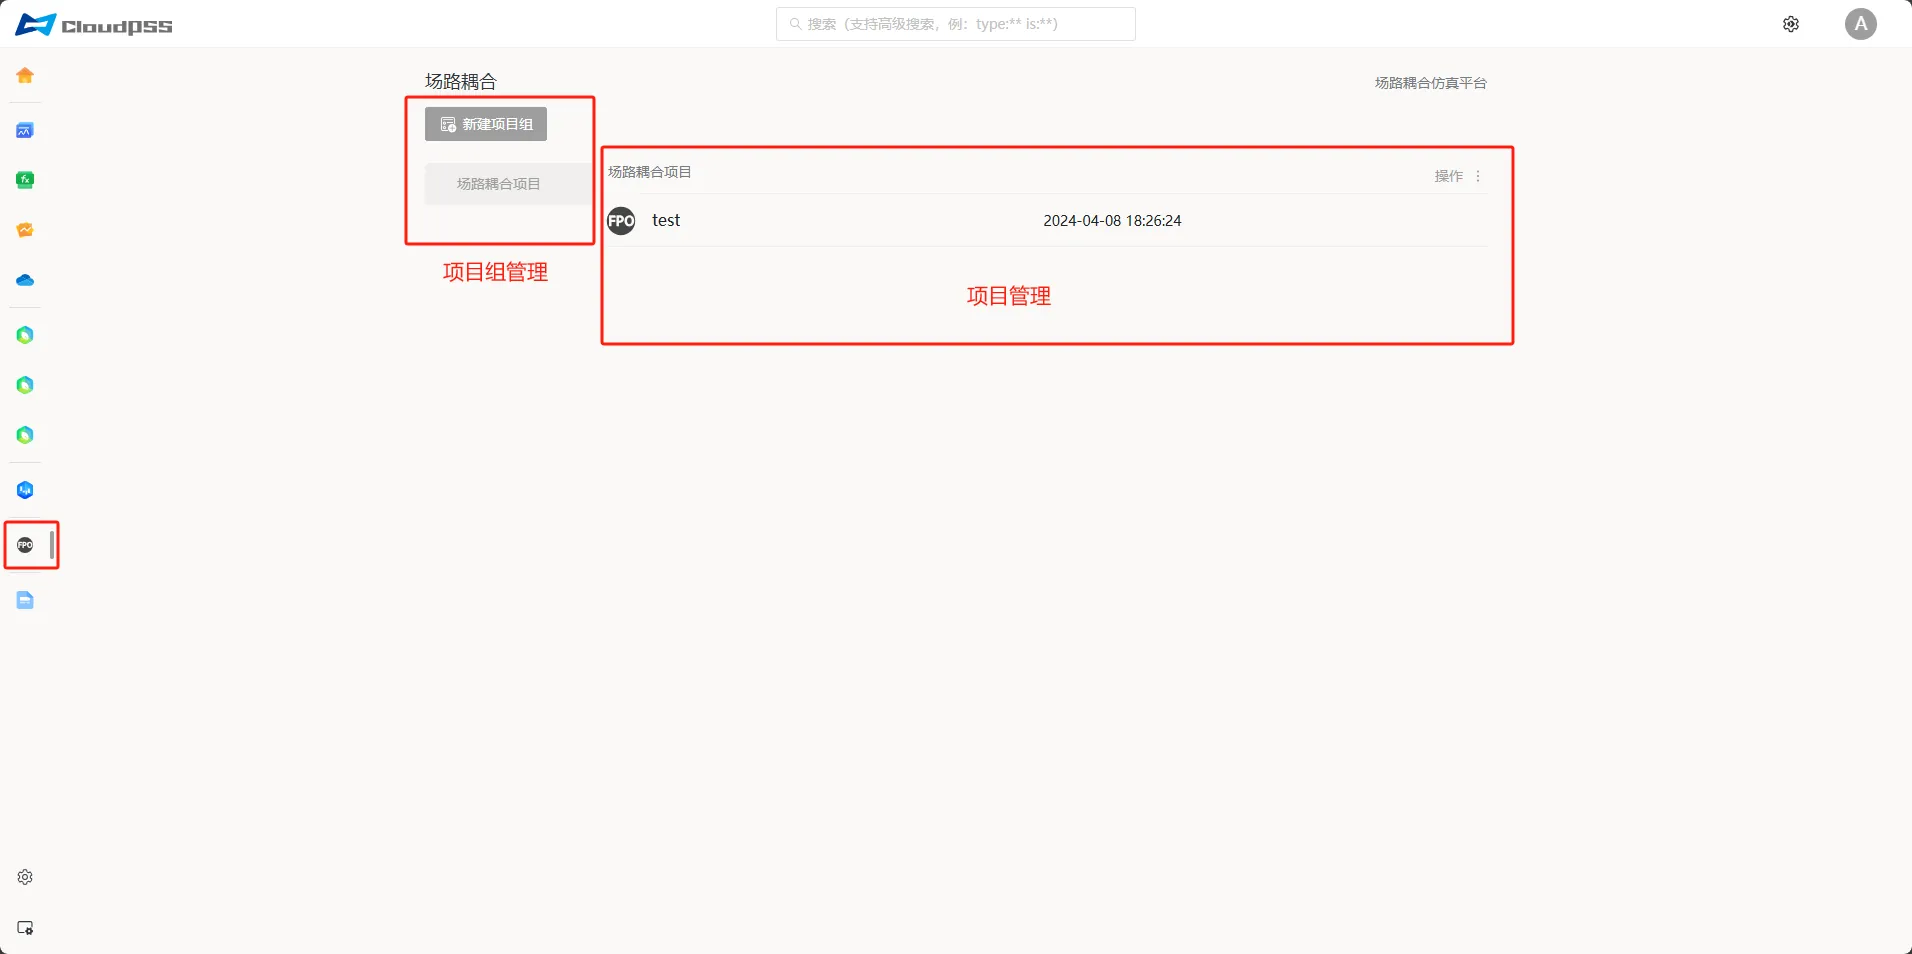
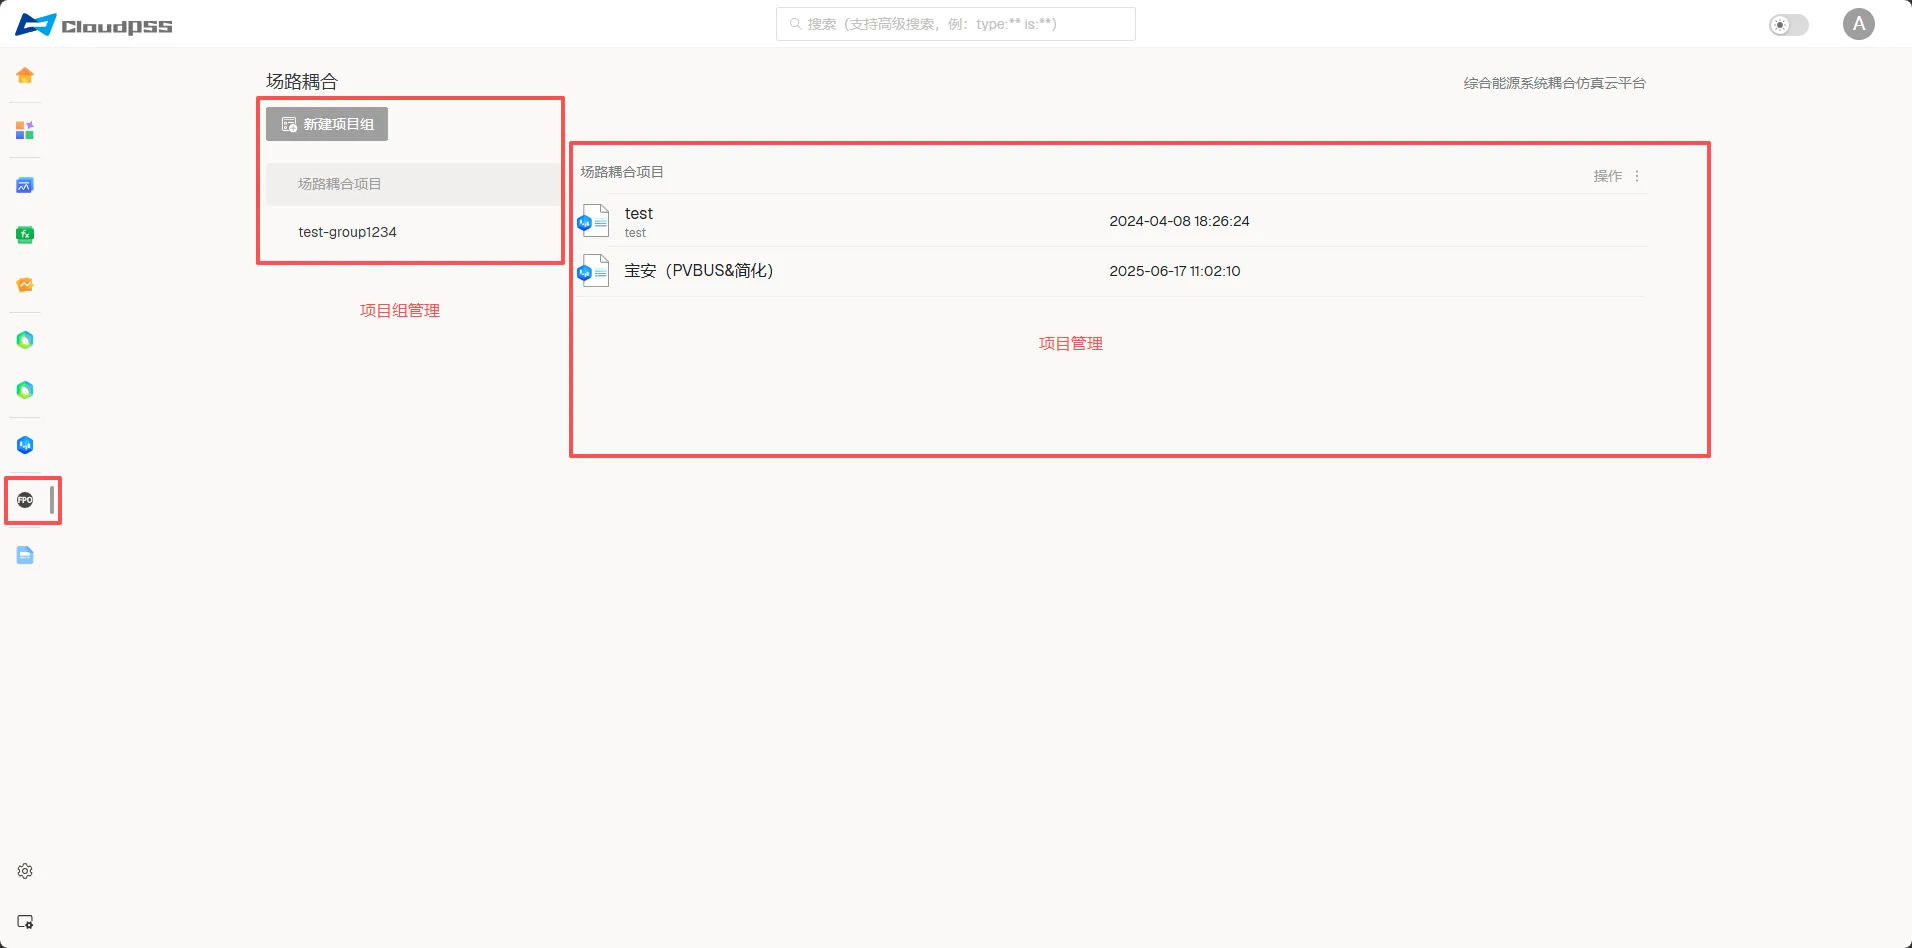
docs: 更新场路耦合和修复链接错误

diff --git a/docs/documents/software/10-xstudio/20-simstudio/50-modeling/40-module-packaging/40-module-permission-config/index.md b/docs/documents/software/10-xstudio/20-simstudio/50-modeling/40-module-packaging/40-module-permission-config/index.md
@@ -22,7 +22,7 @@ tags:
 
 | **权限选项** | **含义与说明** |
 | :--- | :--- |
-| **私有** | 对团队外成员隐藏。如果是保存到协作空间的[协作项目](../../../30-cloud-space/index.md#项目管理)，仅该[协作组织](../../../../../50-user-center/40-general-account-settings/40-organization-management/index.md)的成员可以找到、读取、修改该元件；如果是保存到个人空间的[个人项目](../../../30-cloud-space/index.md#项目管理)，仅用户本身有访问到该模块的权限。 | 
+| **私有** | 对团队外成员隐藏。如果是保存到协作空间的[协作项目](../../../30-cloud-space/index.md#项目中心)，仅该[协作组织](../../../../../50-user-center/40-general-account-settings/40-organization-management/index.md)的成员可以找到、读取、修改该元件；如果是保存到个人空间的[个人项目](../../../30-cloud-space/index.md#项目中心)，仅用户本身有访问到该模块的权限。 | 
 | **作为子模块公开** | 与**私有权限**不同的是，作为子模块公开时，其它所有人均能以元件形式调用这个封装的模块。但仍只有团队成员或用户本人有权限打开、读取该模块的内部信息或修改模块。 | 
 | **完全公开** | 其它所有人均能以元件形式调用这个封装的模块，也可以打开、读取该模块的内部信息。 | 
 

diff --git a/docs/documents/software/10-xstudio/20-simstudio/50-modeling/40-module-packaging/10-define-module-param-list/40-code/index.md b/docs/documents/software/10-xstudio/20-simstudio/50-modeling/40-module-packaging/10-define-module-param-list/40-code/index.md
@@ -28,7 +28,7 @@ tags:
 
 ## 案例
 
-这里创建一个在调用时输入自定义代码进行计算的 octave 控制元件，项目下载链接：[代码形式案例](./model-code-example.zip)，可参考 [上传算例压缩包](../../../../../../50-user-center/30-cloudpss-apps/10-simstudio-cloud-space/index.md#项目管理)的**上传算例压缩包**，上传该测试项目。
+这里创建一个在调用时输入自定义代码进行计算的 octave 控制元件，项目下载链接：[代码形式案例](./model-code-example.zip)，可参考 [上传算例压缩包](../../../../../../50-user-center/30-cloudpss-apps/10-simstudio-cloud-space/index.md#项目中心)的**上传算例压缩包**，上传该测试项目。
 
 1. 首先，按照[octave 元件文档](../../../../../../20-emtlab/50-emts/50-user-defined/10-octave-control/index.md)所描述的方法，创建一个自定义 octave 元件。
 

diff --git a/docs/documents/software/10-xstudio/20-simstudio/40-workbench/20-function-zone/40-run-tab/index.md b/docs/documents/software/10-xstudio/20-simstudio/40-workbench/20-function-zone/40-run-tab/index.md
@@ -82,7 +82,7 @@ SimStudio 作为 CloudPSS 多个仿真软件的建模工作台，内嵌了潮流
 
 点击可下载上述案例：[双端模块化多电平变流器模板](./model_CloudPSS_MMC_Benchmark.zip)。
 
-您可将此项目上传至 SimStudio，结合案例实际学习如何使用参数方案。算例上传方法参见 [上传算例压缩包](../../../30-cloud-space/index.md#项目管理) 帮助页。
+您可将此项目上传至 SimStudio，结合案例实际学习如何使用参数方案。算例上传方法参见 [上传算例压缩包](../../../30-cloud-space/index.md#项目中心) 帮助页。
 
 :::
 
